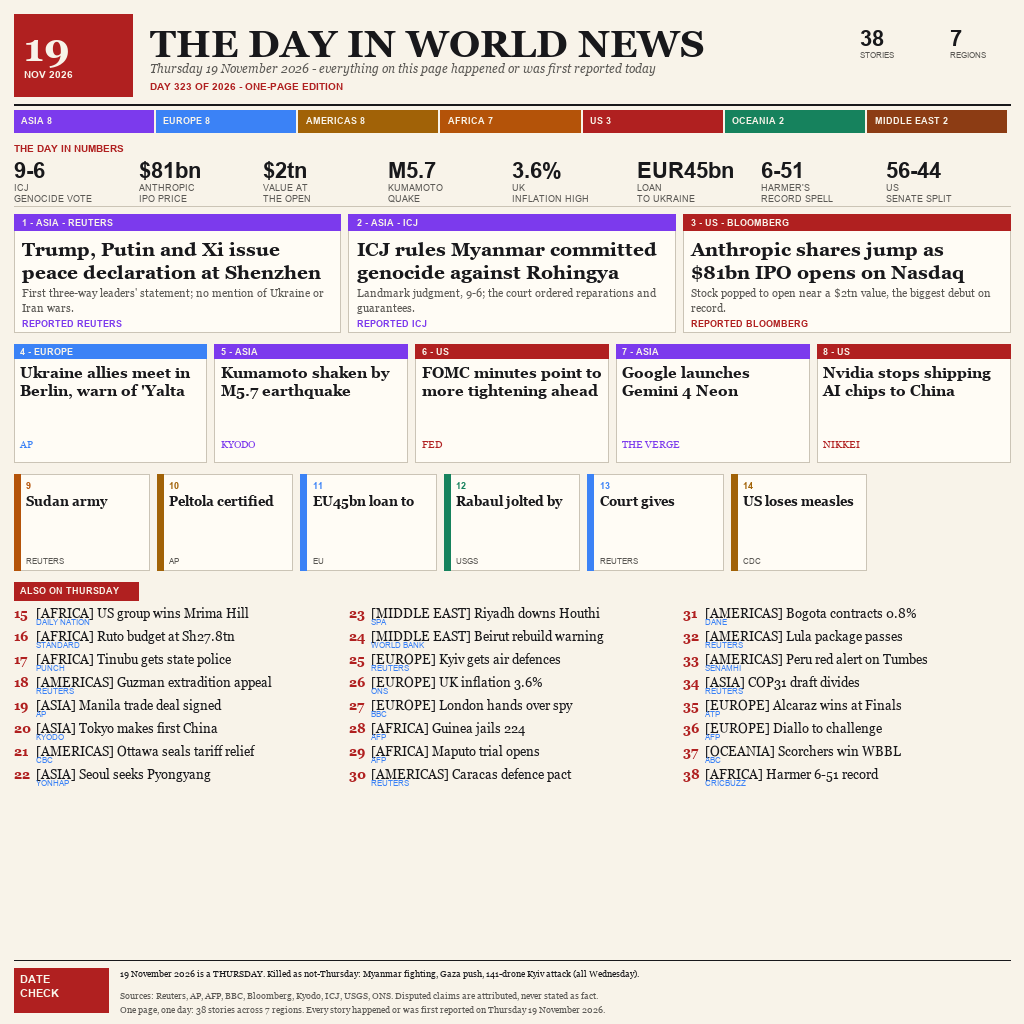
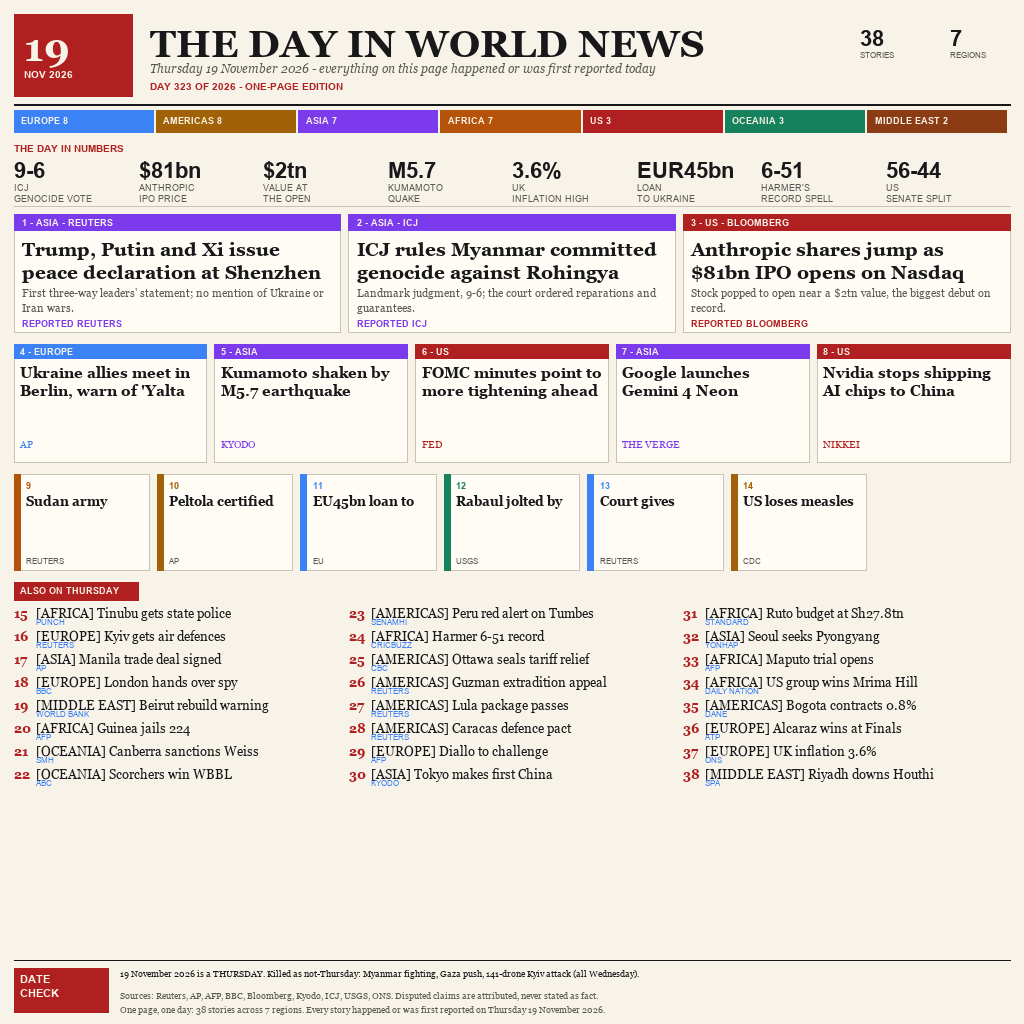
v19 broadsheet: Thursday 19 November 2026, 38 stories

diff --git a/main.ts b/main.ts
@@ -1,14 +1,24 @@
 /**
  * One Day in World News - Thursday 19 November 2026.
- * This repository's entry is entry.png: a cream newsprint broadsheet that
- * sums up the whole world's news for Thursday 19 November 2026 on a single
- * 1024x1024 page. The masthead and red date tab set the day; an eight-cell
- * day-in-numbers strip carries the key figures (ICJ 9-6 genocide vote,
- * Anthropic's $81bn IPO price, Kumamoto's M5.7 quake, UK inflation at 3.6%);
- * three hero cards lead (the Shenzhen three-way summit, the ICJ ruling,
- * the Nasdaq debut), followed by five secondary and seven tertiary cards
- * and twenty-four region-tagged evening briefs; a date-check footer
- * separates Wednesday carryover from the day's real events.
+ *
+ * entry.png is this repository's entry: a cream newsprint broadsheet,
+ * rendered at 1024x1024, that compresses a full day of world news onto
+ * one printed-style page for Thursday 19 November 2026.
+ *
+ * A red date tab on the masthead pins the day to the page. Directly
+ * below it, an eight-cell day-in-numbers strip counts out the figures
+ * that defined the news: the ICJ's 9-6 genocide vote, Anthropic's 81
+ * billion dollar IPO pricing, the M5.7 quake that shook Kumamoto, and
+ * UK inflation printed at 3.6 percent.
+ *
+ * The stories run across three tiers of cards. Three hero cards lead
+ * the page - the Shenzhen three-way summit, the ICJ Myanmar ruling,
+ * and Anthropic's Nasdaq debut. Five secondary cards widen the lens,
+ * and seven tertiary cards fill out the remaining columns.
+ *
+ * Twenty-four region-tagged evening briefs sweep the rest of the
+ * globe, and a date-check footer closes the page, separating
+ * Wednesday's carryover from the day's real events.
  */
 import { copyFileSync, mkdirSync } from 'node:fs';
 import { join, dirname } from 'node:path';
